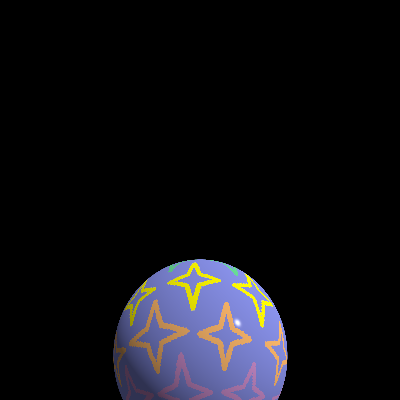
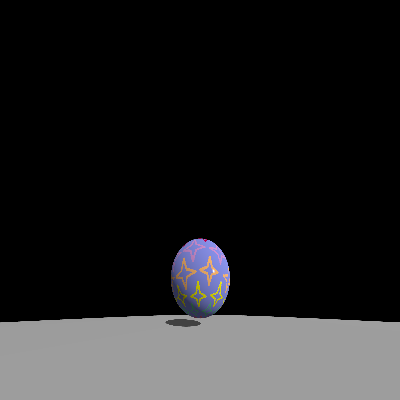
Richtung y-Achse teilweise korrigiert

Changed region(s): [[0.0, 0.57, 1.0, 1.0]]

diff --git a/src/cgg/a05/Main.java b/src/cgg/a05/Main.java
@@ -24,16 +24,16 @@ public class Main {
 
     //Licht und Kamera erstellen
     ArrayList<Lichtquelle> licht = new ArrayList<>();
-    licht.add(new Richtungslichtquelle(vec3(10,-10,10), white));
-    Mat44 transformationKamera = multiply(move(vec3(0,-250,0)),rotate(vec3(1,0,0),5));
+    licht.add(new Richtungslichtquelle(vec3(10,10,10), white));
+    Mat44 transformationKamera = multiply(move(vec3(0,550,-40)),rotate(vec3(1,0,0),-20));
     Lochkamera kamera = new Lochkamera(Math.PI/2, 400, 400, transformationKamera);
-    System.out.println(move(vec3(50,0,0)));
+    //System.out.println(move(vec3(50,0,0)));
 
     //Szene mit Kugeln erstellen
     ArrayList<Kugel> k = new ArrayList<>(); //auskommentiert, da Konstruktor veraendert
-    k.add(new Kugel(vec3(0,1001,-15), 1000, new PhongMaterial(gray, white, 1000.0)));
+    k.add(new Kugel(vec3(0,-1001,-15), 1000, new PhongMaterial(gray, white, 1000.0)));
     TexturedPhongMaterial musterKugel = new TexturedPhongMaterial(new ImageTexture("data/sterne2.png"), new ConstantColor(white), new ConstantColor(color(1000.0)));
-    k.add(new Kugel(vec3(0,-1.3,-4), 1.7, musterKugel));
+    k.add(new Kugel(vec3(0,1.3,-4), 1.7, musterKugel));
 
     Kugelgruppe kugelScene = new Kugelgruppe(k); //erstellt Szene mit Kugeln
 

diff --git a/src/cgg/a02/Lochkamera.java b/src/cgg/a02/Lochkamera.java
@@ -27,7 +27,7 @@ public class Lochkamera {
         double x = point.u();
         double y = point.v();
         double xVec = x - (width/2);
-        double yVec = y - (height/2);
+        double yVec = - y - (height/2);
         double zVec = -((width/2)/(Math.tan(winkelOeffnung/2)));
         Vec3 vec3= 	new Vec3(xVec, yVec, zVec);
         Vec3 vec3transformiert = multiplyPoint(matrix, vec3); //Transformation des Punktes
